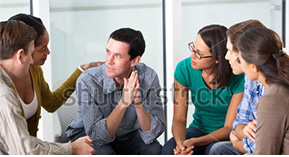
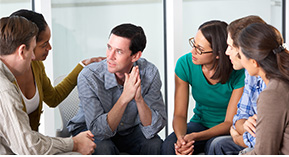
Revisions for the site to include content updates and replacement of images with purchased stock ones.

diff --git a/our-success.html b/our-success.html
@@ -66,28 +66,26 @@
                         <p>Parents and referring professionals routinely thank us for making this challenging event such a manageable, safe, and 
                         therapeutic experience. That’s because we:</p>
                         <ul class="unstyled-list">
-                        <li><span class="red-text"><strong>Reduce Anxiety:</strong></span> We take the fear and mystery out of the experience for the 
-                        parents their adolescent or young adult</li>
+                        <li><span class="red-text"><strong>Reduce Anxiety:</strong></span> We take the fear and mystery out of the experience for parents and their adolescent or young adult</li>
                         <li><span class="red-text"><strong>Communicate and Accommodate:</strong></span> We work closely with parents, the receiving 
                         program, and referring professionals to ensure that travel arrangements and staff selection are ideal and special needs are 
-                        accommodated</li>	
+                        accommodated; we are in constant contact with all involved parties throughout the process</li>	
                         <li><span class="red-text"><strong>Manage Expenses:</strong></span> We work hard on our clients’ behalf to manage expenses and 
                         provide the quickest and safest transportation at the lowest cost</li>
                         </ul>
                         <p>Believe it or not even the most resistant teens often thank and even hug our staff at the end of the transport experience! 
-                        By the time they arrive at treatment, many have come to understand their need for treatment are relieved that the process is 
+                        By the time they arrive at treatment, many have come to understand their need for treatment and are relieved that the process is 
                         finally underway.</p>
-                        <p>If you are a parent or professional interested in our services and would like to speak with a parent or referent, please <a 
-                        href="contact-us.html" title="Contact Us">let us know.</a></p>
+                        <p>If you are a parent or professional interested in our services and would like to speak with a parent or referent, please <a href="contact-us.html" title="Contact Us">let us know.</a></p>
                         <div class="center-columns">
                         <div class="three-col-div">
-                        	<img class="three-col-img flex-img" src="img/blane-difference-success01.jpg" alt="Bill Lane" />
+                        	<img class="three-col-img flex-img" src="img/blane-diff-success01.jpg" alt="Bill Lane" />
                         </div>
                         <div class="three-col-div">
-                        	<img class="three-col-img flex-img" src="img/blane-difference-success02.jpg" alt="Bill Lane" />
+                        	<img class="three-col-img flex-img" src="img/blane-diff-success02.jpg" alt="Bill Lane" />
                         </div>
                         <div class="three-col-div">
-                        	<img class="three-col-img flex-img" src="img/blane-difference-success03.jpg" alt="Bill Lane" />
+                        	<img class="three-col-img flex-img" src="img/blane-diff-success03.jpg" alt="Bill Lane" />
                         </div>
                         </div>
                     </section>

diff --git a/index.html b/index.html
@@ -60,10 +60,10 @@
 
                 <article class="clearfix" role="main">
                     <header class="main-content-block shadow">
-                        <img src="img/home-main-image-3.jpg" class="flex-img" alt="image of a girl in a courtyard with a testimonial" />
+                        <img src="img/homepageHero.png" class="flex-img" alt="image of a therapist taking notes" />
                     </header>
                     <section class="main-content-block shadow">
-                        <h1 class="page-heading">Bill Lane & Associates Adolescent Transport Services</h1>
+                        <h1 class="page-heading">Bill Lane <span class="ampersand">&</span> Associates Adolescent Transport Services</h1>
                         <p><em>Safe Therapeutic Transportation since 1992</em></p>
                         <p>Bill Lane &amp; Associates (BL&amp;A) has provided adolescents and young adults with safe transportation to treatment 
                         facilities for over 20 years. Our mission is to improve therapeutic engagement by reducing anxiety and providing 
@@ -71,7 +71,7 @@
 						<p>Our exhaustive training, talented team, and therapeutic orientation set us apart from other transportation companies.</p>
                     </section>
                     <section class="main-content-block shadow">
-                        <img src="img/home-training-3.jpg" class="home-image-container flex-img" alt="Exhaustive Training of Our Staff" />
+                        <img src="img/home-training-image.jpg" class="home-image-container flex-img" alt="Exhaustive Training of Our Staff" />
                         <div class="right-body-text">
                             <h2 class="section-header">Exhaustive Training</h2>
                             <p class="home-section-text">BL&amp;A team members are recruited primarily from the adolescent mental health and law 
@@ -80,7 +80,7 @@
                             management training through the Crisis Prevention Institute (CPI), First S.T.E.P.™ therapeutic transportation 
                             training, first aid, CPR, and on‐the-job mentoring by senior-‐ level therapeutic transportation specialists.</p>
                         </div>
-                        <img src="img/blane-talent-image-V3.jpg" class="home-image-container flex-img" alt="Exhaustive Training of Our Staff" />
+                        <img src="img/home-talent-image.jpg" class="home-image-container flex-img" alt="Exhaustive Training of Our Staff" />
                         <div class="right-body-text">
                             <h2 class="section-header">Natural Talent</h2>
                             <p class="home-section-text"> While our training is exhaustive, something we can’t teach is the ability to quickly 

diff --git a/our-approach.html b/our-approach.html
@@ -65,12 +65,12 @@
                         <h2 class="uppercase-regular-weight-heading">First Step In The Treatment Process</h2>
                         <p>We view the transition from home to a wilderness therapy program, addiction treatment program, or other residential 
                         treatment program as the critical first step in the treatment process. We know that the uncertainties of treatment often 
-                        causes ambivalence and fear in parents, and can ignite a fight or flight impulse in a young person. So we provide parents with 
+                        cause ambivalence and fear in parents, and can ignite a fight or flight impulse in a young person. So we provide parents with 
                         a clear plan for a calm, successful, and safe transition. We offer the young person being transported a sense of respect, 
                         compassion, and safety. Our goal is to alleviate parental anxieties, move the child safely and efficiently and, in the 
                         process, help everyone make a smooth transition to the potentially lifesaving opportunity that treatment provides.</p>
                         <h2 class="uppercase-regular-weight-heading">Hiring And Training</h2>
-                        <img class="body-img-left flex-img" src="img/approach-body-img-2.jpg" alt="Providing smooth transitions with top 
+                        <img class="body-img-left flex-img" src="img/blane-diff-approach.jpg" alt="Providing smooth transitions with top 
                         professionals." />
                         <p>While our therapeutic transportation approach greatly reduces resistant behavior, some young people do offer resistance. 
                         Our team members are trained to gently, safely, and effectively deescalate and manage that behavior for maximum safety and 

diff --git a/bill-lane-difference.html b/bill-lane-difference.html
@@ -75,7 +75,7 @@
                         	<a href="our-story.html" title="Read more about the Bill Lane Story"><h2 class="uppercase-regular-weight-heading">Our 
                         	Story</h2></a>
                         	<a href="our-story.html" title="Read more about the Bill Lane Story"><img class="three-col-img flex-img" 
-                        	src="img/blane-difference-success.jpg" alt="The Bill Lane Story" /></a>
+                        	src="img/blane-difference-story.jpg" alt="The Bill Lane Story" /></a>
                         	<p>During Bill’s tenure as the president of an adolescent treatment program, he noticed that far too many young people 
                         	were arriving at treatment in an escalated state...<a href="our-story.html" title="Our Story"> Read More...</a></p>
                         </div>
@@ -91,7 +91,7 @@
                         	<a href="our-success.html" title="Read more about the Bill Lane Story"><h2 class="uppercase-regular-weight-heading">Our 
                         	Success</h2></a>
                         	<a href="our-success.html" title="Read more about Bill Lane"><img class="three-col-img flex-img" 
-                        	src="img/blane-difference-story.jpg" alt="The Bill Lane Story" /></a>
+                        	src="img/blane-difference-success.jpg" alt="The Bill Lane Story" /></a>
                         	<p>Parents and referring professionals routinely thank us for making this challenging event such a manageable, safe, and 
                         	therapeutic experience. That’s because...<a href="our-success.html" title="Our Success"> Read More...</a></p>
                         </div>

diff --git a/our-story.html b/our-story.html
@@ -67,11 +67,11 @@
                         parents or undertrained professionals, teens were resisting, running away, and even manipulating through violence or 
                         self-harm. “That was unsafe, not to mention unpleasant. Even when the child did finally make it to treatment, thejourney was 
                         traumatic and the treatment process was compromised. I knew something had to change.”</p>
-                        <img class="body-img-right flex-img" src="img/blane-diff-story-2.jpg" alt="Providing confort to adolescents and teens" />
+                        <img class="body-img-right flex-img" src="img/blane-diff-story.jpg" alt="Providing confort to adolescents and teens" />
                         <p>So Bill used his many years of training and experience as a treatment professional to provide safe transportation to 
                         clients at the treatment facility where he worked. Eventually other referring professionals began to request his services. 
                         After perfecting his First S.T.E.P.™ (Safe Therapeutic Escort Protocols) training program, Bill and his team began 
-                        transporting adolescents and young adults exclusively, helping thousands of young people make their was safely to treatment 
+                        transporting adolescents and young adults exclusively, helping thousands of young people make their way safely to treatment 
                         programs across the country and around the world.</p>
 
 						<p class="center-red"><em>“We knew getting Sammy to treatment would not be easy. But there could not have been a better start 

diff --git a/what-we-do.html b/what-we-do.html
@@ -66,12 +66,10 @@
                         starting treatment with a positive experience. Our services are designed to take the fear out of this transition for children 
                         and parents alike. A positive transportation experience can help decrease resistance, improve therapeutic engagement, and 
                         accelerate treatment.</p>
-                        <p>Our team can finalize a transportation plan in as little 5 hours in emergency situations with team members arriving on 
-                        scene within 24 hours in most cases. In non‐emergent cases, we provide options to the family based on preferred timing and 
-                        travel costs.</p>
+                        <p>Our team can finalize a transportation plan very quickly in emergency situations. In non‐emergent cases, we provide customized options to the family based on preferred timing and travel costs.</p>
 
 						<p class="center-red"><em>“What you do is a very important piece of a much larger puzzle. You started the process of wellness 
-						for my family. One year later, I continue to be extremely grateful for the positive roll you played. If possible, please share 
+						for my family. One year later, I continue to be extremely grateful for the positive role you played. If possible, please share 
 						my gratitude with the gentlemen that escorted my son.”</em><br />
 						~M.M.</p>	
                     </section>

diff --git a/contact-us.html b/contact-us.html
@@ -66,9 +66,7 @@
                         throughout the country near every major transportation hub. We can transport a child to and from any location in the United 
                         States and Canada, as well as many locations internationally. Please call us toll free at (866) 492-3400 to discuss your 
                         specific needs.</p>
-                        <p>Our team can finalize a transportation plan in as little 5 hours in emergency situations with team members arriving on 
-                        scene within 24 hours in most cases. In non‐emergent cases, we provide options to the family based on preferred timing and 
-                        travel costs.</p>
+                        <p>Our team can finalize a transportation plan very quickly in emergency situations. In non‐emergent cases, we provide customized options to the family based on preferred timing and travel costs.</p>
                         <h1 class="center-capitalized-heading">Bill Lane & Associates, Inc.</h1>
                         <div class="centered-large-text">
                         <p>720 Seagirt Court San Diego, CA 92109</p>

diff --git a/css/main.css b/css/main.css
@@ -120,6 +120,7 @@ nav a:visited {
 .main article h1 {
     font-size: 2em;
     color: #711724;
+    clear: both;
 }
 
 .main aside {
@@ -171,6 +172,10 @@ h1, h2, h3, h4, h5, h6 {
     font-family: 'Kameron', serif;
 }
 
+.ampersand {
+	font-family: georgia, serif;
+}
+
 a {
     color: #1f4e5a;
     text-decoration: none;
@@ -194,8 +199,12 @@ a:hover {
     font-weight: 400;
 }
 
+header a {
+	color: #A2A6A5;
+}
+
 header h1 {
-    background-image: url('../img/logo.png');
+    background-image: url('../img/logo-2.png');
     width: 130px;
     height: 130px;
     float: left;
@@ -332,6 +341,12 @@ ul.unstyled-list li {
 /* ==========================================================================
    Media Queries
    ========================================================================== */
+
+@media only screen and (min-width: 320px) {
+	.top-header-text {
+    	clear: both;
+	}
+}
 
 @media only screen and (min-width: 480px) {
 
@@ -566,7 +581,7 @@ nav ul li ul {
 }
     
     .team-image-container-left {
-        margin-bottom: 0;
+        margin: 2% 0 0 0;
         float: left;
         width: 249px;
         height: 249px;

diff --git a/the-team-2.html b/the-team-2.html
@@ -137,7 +137,7 @@
                             		“I love Bill Lane’s philosophy that ‘there are no bad kids’—even if they’re not making the best choices. We see 
                             		the good in every client.”</p>
                             		<p class="margin-left-text add-top-margin">John’s hobbies include golf, tennis racquetball and spending time with 
-                            		his large family. <span class="bobless" title="">Read less...</span></p>
+                            		his large family. <span class="johnless" title="">Read less...</span></p>
                             	</div>
                             </div>
                         </div>
